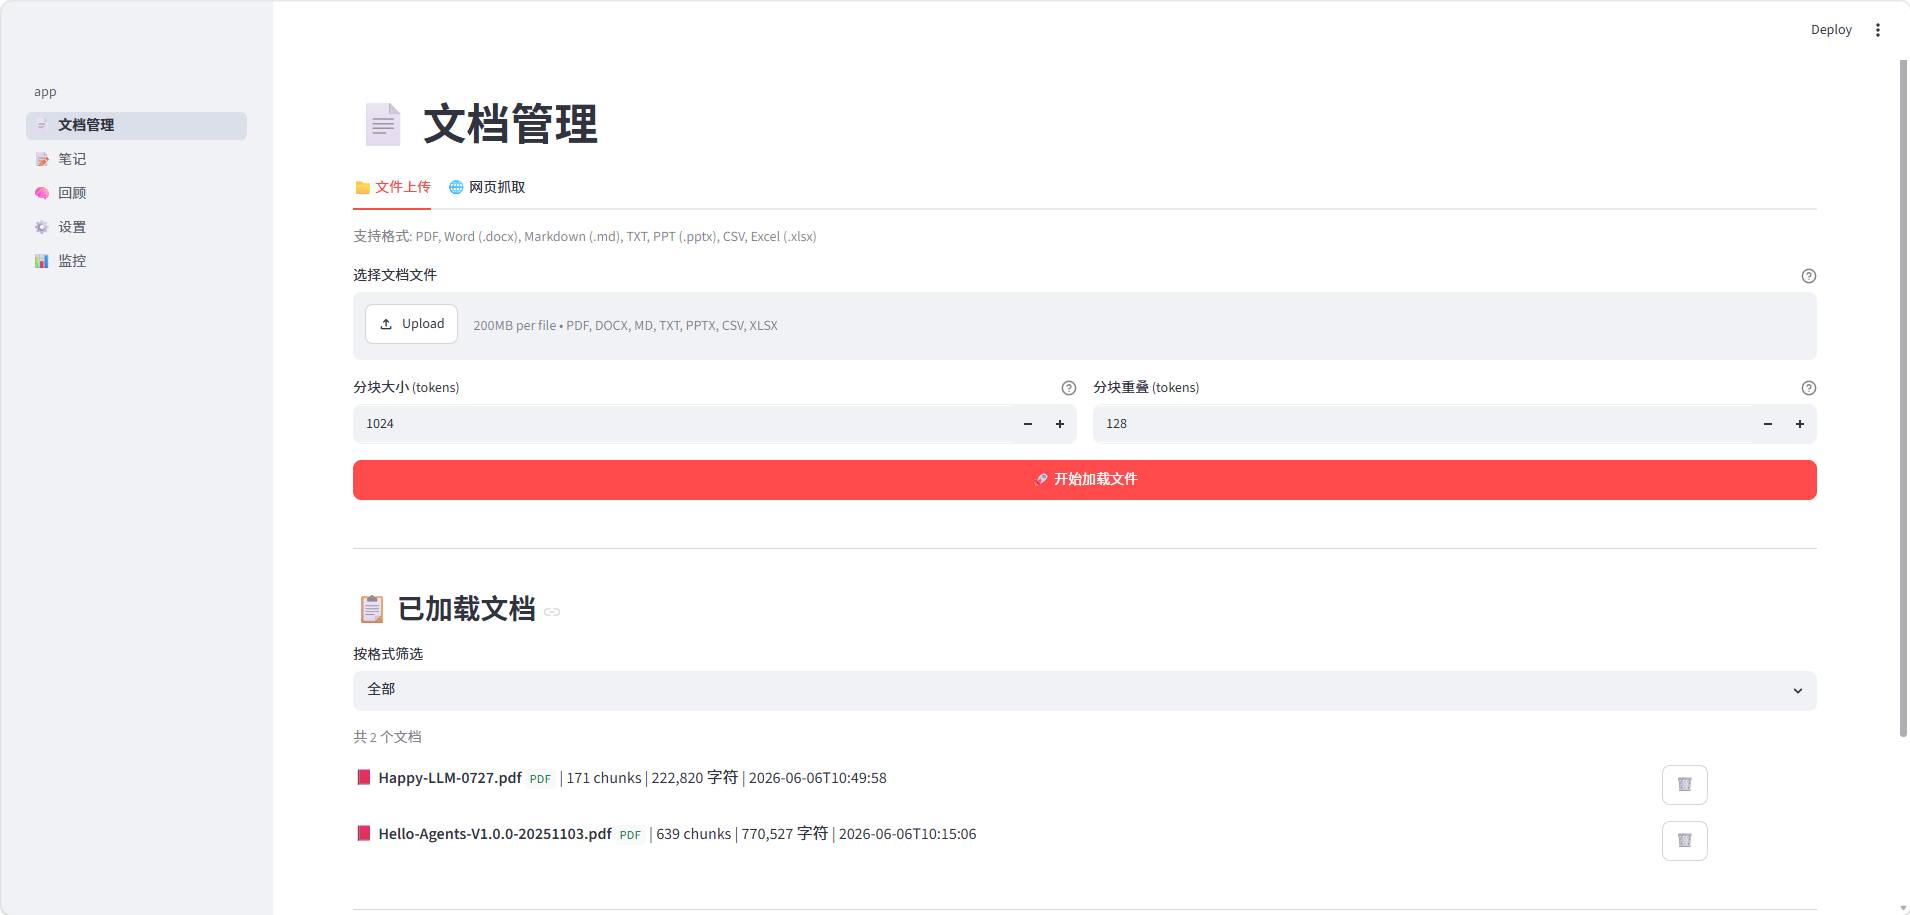
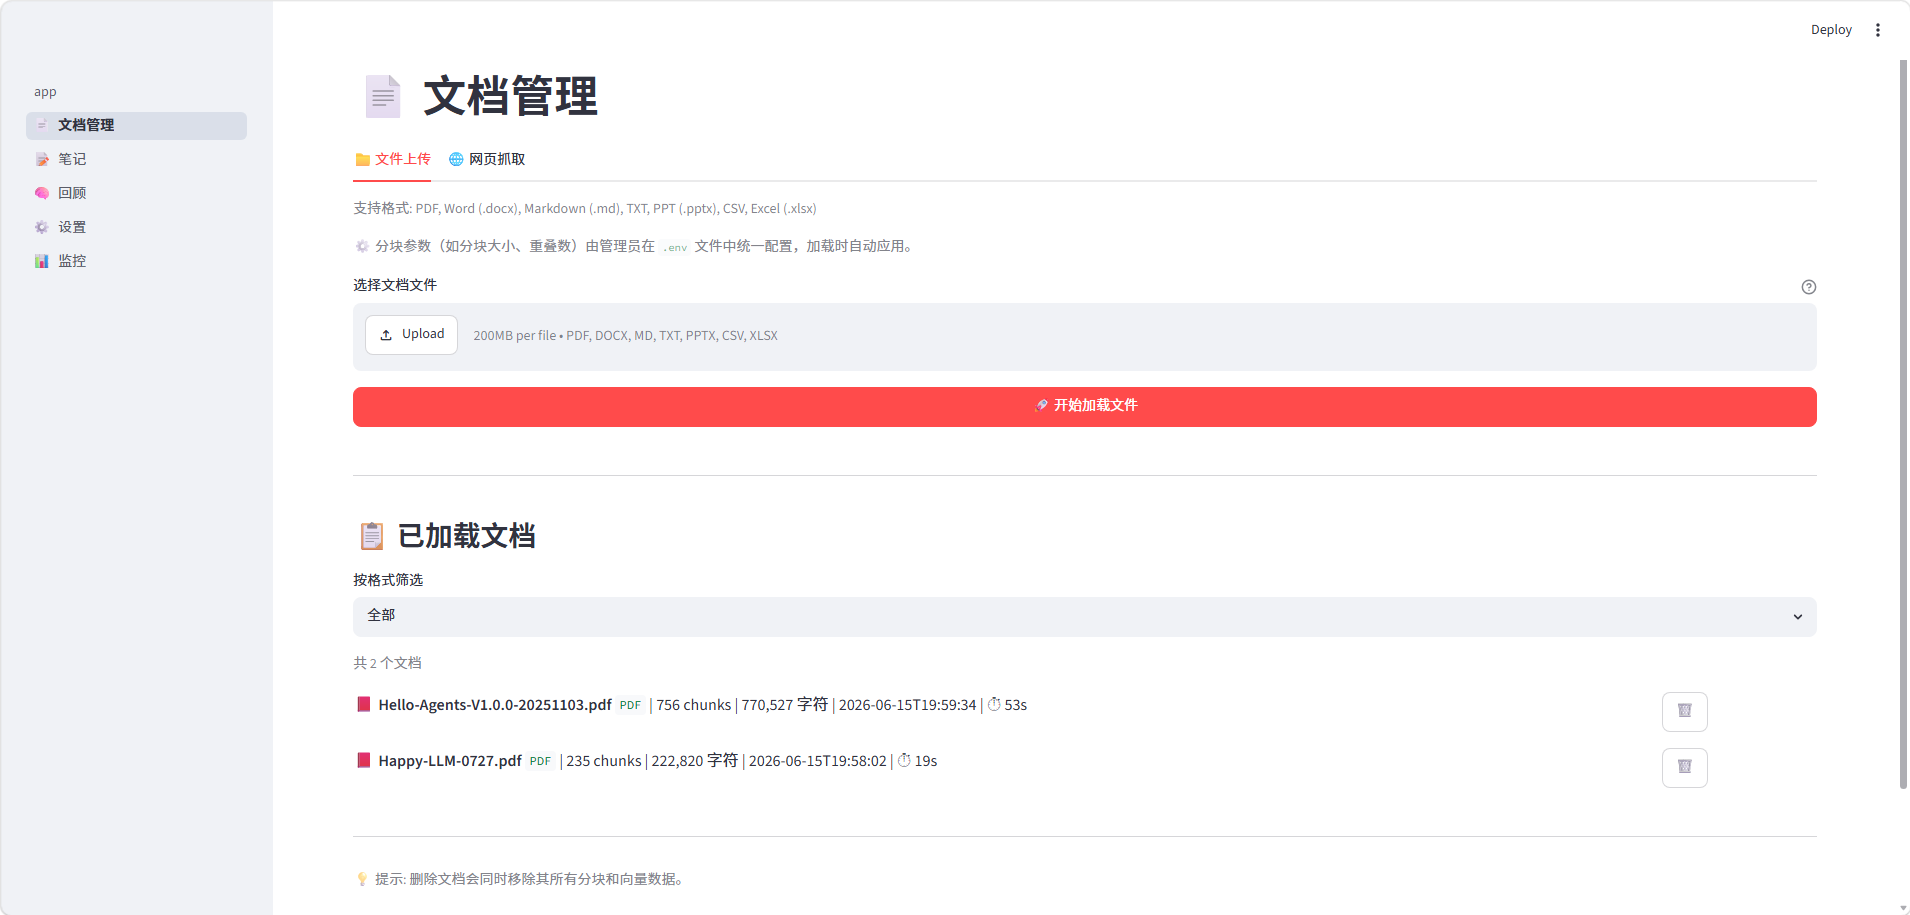
🔧部分问题

diff --git a/src/retrieval/reranker.py b/src/retrieval/reranker.py
@@ -63,6 +63,8 @@ class Reranker:
         """
         global _reranker_model, _model_path  # noqa: PLW0603
 
+        self._model: CrossEncoder | None = None  # type: ignore[annotation-unchecked]
+
         if model_path is None:
             model_path = _get_model_path()
 

diff --git a/README.md b/README.md
@@ -425,6 +425,10 @@ python scripts/run_evaluation.py --dataset data/evaluation/dataset_xxx.json -u <
 
 # 运行单元测试
 pytest tests/ -v
+
+# 代码检查（CI 自动执行）
+ruff check src/                     # 代码风格
+mypy src/                           # 静态类型检查
 ```
 
 > 📊 评测报告含检索指标（Recall/Precision/MRR/NDCG）、延迟分位（P50/P95）、Token 消耗统计，可选 RAGAS 生成质量评分（Faithfulness + Answer Relevancy）。详见 `eval_data.md`。
